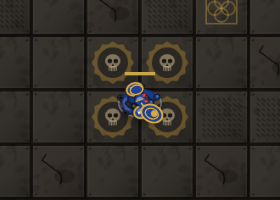
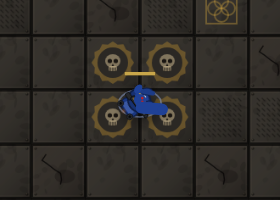
Guard pose readable; fix double pickup toast; spreads ×1.8
Guard: skip stock _top while bracing (twin gold pauldrons stacked into
a disc); draw an elongated blue covering arm/pauldron + tucked gun and
body twist instead — no shield/plate overlay.

Crate pickup: grantWeapon({ announce: false }) so unlock+pickup no
longer both toast; wave unlocks still emit unlock. Regression test.

Weapon spread cones ×1.8 (melta stays 0); baseline regenerated.

Changed region(s): [[0.4, 0.39, 0.6, 0.63]]

diff --git a/packages/client/src/render/Renderer.ts b/packages/client/src/render/Renderer.ts
@@ -914,61 +914,52 @@ export class Renderer {
   }
 
   /**
-   * Defensive stance pose (no shield graphic): Space Marine covers with the leading pauldron and
-   * raised gauntlet — same spirit as the sprint run-arms, just planted and covering the front.
-   * Drawn over body + helmet/_top so the raised pauldron clearly covers the front.
+   * Guard cover silhouette. Stock `_top` is skipped while guarding (its twin gold-rimmed
+   * pauldrons stack into a disc when the torso twists). Instead: one elongated blue covering
+   * pauldron/arm into the aim, trailing shoulder back, simple helmet — no gold discs/arcs.
    */
   private drawGuardBrace(ch: ChapterDef, x: number, y: number, a: number): void {
     const { ctx } = this;
     const c = Math.cos(a);
     const s = Math.sin(a);
-    // Leading shoulder shoved forward into the threat (covers the front arc).
-    const lead = 1;
-    const sx = x + c * 14 - s * 16 * lead;
-    const sy = y + s * 14 + c * 16 * lead;
     ctx.save();
     ctx.lineCap = 'round';
-    // Trailing shoulder settles back — body turned into the brace.
-    const tx = x - c * 4 + s * 12 * lead;
-    const ty = y - s * 4 - c * 12 * lead;
+    ctx.lineJoin = 'round';
+
+    // Trailing shoulder — small, blue only, pulled back.
     ctx.fillStyle = ch.primary;
-    ctx.strokeStyle = ch.trim;
-    ctx.lineWidth = 1.75;
     ctx.beginPath();
-    ctx.ellipse(tx, ty, 7.5, 5.5, a - 0.25 * lead, 0, Math.PI * 2);
+    ctx.ellipse(x - c * 2 + s * 13, y - s * 2 - c * 13, 6, 4, a - 0.9, 0, Math.PI * 2);
     ctx.fill();
-    ctx.stroke();
-    // Forearm bar across the torso (raised covering arm).
-    const hx = x + c * 2 - s * 4 * lead;
-    const hy = y + s * 2 + c * 4 * lead;
+
+    // Helmet (stock _top skipped).
+    ctx.beginPath();
+    ctx.arc(x, y, 7.2, 0, Math.PI * 2);
+    ctx.fill();
+    ctx.fillStyle = '#c02020';
+    ctx.beginPath();
+    ctx.arc(x + c * 2.8 - s * 2.2, y + s * 2.8 + c * 2.2, 1.5, 0, Math.PI * 2);
+    ctx.arc(x + c * 2.8 + s * 2.2, y + s * 2.8 - c * 2.2, 1.5, 0, Math.PI * 2);
+    ctx.fill();
+
+    // Covering pauldron+arm: elongated BLUE capsule aimed into the threat (aspect ~3:1).
+    // Drawn as a thick stroke so it reads as a raised shoulder/arm, never a round plate.
+    const shX = x + c * 2 - s * 9;
+    const shY = y + s * 2 + c * 9;
+    const tipX = x + c * 26 - s * 11;
+    const tipY = y + s * 26 + c * 11;
     ctx.strokeStyle = ch.primary;
-    ctx.lineWidth = 7;
+    ctx.lineWidth = 14;
     ctx.beginPath();
-    ctx.moveTo(hx, hy);
-    ctx.lineTo(sx - c * 3, sy - s * 3);
+    ctx.moveTo(shX, shY);
+    ctx.lineTo(tipX, tipY);
     ctx.stroke();
-    ctx.strokeStyle = ch.trim;
-    ctx.lineWidth = 2;
-    ctx.stroke();
-    // Big raised pauldron disc (the readable "covers with his shoulder" beat).
+    // Fist
     ctx.fillStyle = ch.primary;
-    ctx.strokeStyle = ch.trim;
-    ctx.lineWidth = 2.25;
     ctx.beginPath();
-    ctx.ellipse(sx, sy, 13, 10, a + 0.45 * lead, 0, Math.PI * 2);
+    ctx.arc(tipX, tipY, 5, 0, Math.PI * 2);
     ctx.fill();
-    ctx.stroke();
-    // Trim ridge on the pauldron
-    ctx.strokeStyle = ch.trim;
-    ctx.lineWidth = 1.5;
-    ctx.beginPath();
-    ctx.ellipse(sx, sy, 8, 6, a + 0.45 * lead, 0, Math.PI * 2);
-    ctx.stroke();
-    // Gauntlet fist at the forward edge
-    ctx.fillStyle = ch.trim;
-    ctx.beginPath();
-    ctx.arc(sx + c * 3, sy + s * 3, 4, 0, Math.PI * 2);
-    ctx.fill();
+
     ctx.restore();
   }
 
@@ -1048,7 +1039,7 @@ export class Renderer {
             ? weaponPose(sprinting, mine ? f.me!.sprint!.weaponDelay : (p.wd ?? 0))
             : 1;
         // Guard: slight body turn into the leading shoulder (same layers, no shield overlay).
-        const guardTwist = guarding ? -0.32 : 0;
+        const guardTwist = guarding ? -0.6 : 0;
         const bodyA = a + guardTwist;
         if (this.assets.draw(ctx, body, frame, x, y, bodyA)) {
           // Weapon: held in the aim direction. v0.6.0 hotfix: while sprinting it is NOT drawn
@@ -1057,9 +1048,9 @@ export class Renderer {
           // While guarding the gun is tucked in across the body so the raised pauldron reads.
           const e = pose * pose * (3 - 2 * pose);
           const guardTuck = guarding ? 1 : 0;
-          const back = rec * e + 6 * (1 - e) + 14 * guardTuck;
-          const wRot = (1 - e) * 0.7 + 0.75 * guardTuck;
-          const wScale = (0.9 + 0.1 * e) * (1 - 0.12 * guardTuck);
+          const back = rec * e + 6 * (1 - e) + 12 * guardTuck;
+          const wRot = (1 - e) * 0.7 + 0.95 * guardTuck;
+          const wScale = (0.9 + 0.1 * e) * (1 - 0.1 * guardTuck);
           this.heldPose.set(p.id, {
             x,
             y,
@@ -1075,28 +1066,31 @@ export class Renderer {
               ctx,
               held,
               0,
-              x - Math.cos(a) * back + Math.sin(a) * 4 * guardTuck,
-              y - Math.sin(a) * back - Math.cos(a) * 4 * guardTuck,
+              x - Math.cos(a) * back + Math.sin(a) * 14 * guardTuck,
+              y - Math.sin(a) * back - Math.cos(a) * 14 * guardTuck,
               a + wRot,
               wScale,
             );
             ctx.globalAlpha = 1;
           }
           if (pose < 1) this.drawRunningArms(ch, x, y, a, w.dist, 1 - pose);
-          // Helmet / pauldrons follow the twisted torso; raised covering arm drawn on top.
-          this.assets.draw(ctx, `${body}_top`, 0, x, y, bodyA);
-          if (guarding) this.drawGuardBrace(ch, x, y, a);
+          if (guarding) {
+            // Skip stock _top — twin gold-rimmed pauldrons form a disc when twisted.
+            this.drawGuardBrace(ch, x, y, a);
+          } else {
+            this.assets.draw(ctx, `${body}_top`, 0, x, y, bodyA);
+          }
         } else {
           ctx.fillStyle = ch.primary;
           ctx.beginPath();
           ctx.arc(x, y, PLAYER.radius, 0, Math.PI * 2);
           ctx.fill();
-          if (guarding) this.drawGuardBrace(ch, x, y, a);
+          if (guarding) this.drawGuardBrace(ch, x, y, bodyA);
           if (pose > 0) {
             ctx.strokeStyle = ch.trim;
             ctx.lineWidth = 5;
             ctx.globalAlpha = pose;
-            const reach = guarding ? 16 : 26;
+            const reach = guarding ? 12 : 26;
             ctx.beginPath();
             ctx.moveTo(x, y);
             ctx.lineTo(x + Math.cos(a) * reach * pose, y + Math.sin(a) * reach * pose);

diff --git a/packages/shared/test/pickupToast.test.ts b/packages/shared/test/pickupToast.test.ts
@@ -1,0 +1,63 @@
+/** Crate pickup must not double-fire unlock+pickup toasts for a new weapon. */
+import { describe, expect, it } from 'vitest';
+import { createWorld, grantWeapon, type World } from '../src/sim/index.js';
+import { updatePickups } from '../src/sim/systems/pickups.js';
+import { unlockWaveWeapons } from '../src/sim/systems/weapons.js';
+
+function world(): World {
+  const w = createWorld([{ id: 1, name: 'M1' }], 7);
+  w.director.idle = true;
+  return w;
+}
+
+describe('weapon crate pickup announcements', () => {
+  it('new crate grant emits pickup only (no unlock) so the HUD toasts once', () => {
+    const w = world();
+    const p = w.players[0]!;
+    expect(p.weapons.includes('plasma_gun')).toBe(false);
+    w.pickups.push({
+      id: 99,
+      kind: 'weapon',
+      weapon: 'plasma_gun',
+      x: p.x,
+      y: p.y,
+      life: 30,
+    });
+    w.events.length = 0;
+    updatePickups(w, 1 / 60);
+    expect(p.weapons.includes('plasma_gun')).toBe(true);
+    const unlocks = w.events.filter((e) => e.e === 'unlock');
+    const pickups = w.events.filter((e) => e.e === 'pickup');
+    expect(unlocks).toHaveLength(0);
+    expect(pickups).toEqual([{ e: 'pickup', p: p.id, k: 'weapon', w: 'plasma_gun' }]);
+  });
+
+  it('already-owned crate still emits a single pickup (ammo refill path)', () => {
+    const w = world();
+    const p = w.players[0]!;
+    grantWeapon(w, p, 'plasma_gun', { announce: false });
+    p.ammo.plasma_gun = 1;
+    w.pickups.push({
+      id: 100,
+      kind: 'weapon',
+      weapon: 'plasma_gun',
+      x: p.x,
+      y: p.y,
+      life: 30,
+    });
+    w.events.length = 0;
+    updatePickups(w, 1 / 60);
+    expect(p.ammo.plasma_gun).toBe(w.content.weapon('plasma_gun').magazine);
+    expect(w.events.filter((e) => e.e === 'unlock')).toHaveLength(0);
+    expect(w.events.filter((e) => e.e === 'pickup')).toHaveLength(1);
+  });
+
+  it('wave unlocks still emit unlock (banner for shared arsenal grants)', () => {
+    const w = world();
+    const p = w.players[0]!;
+    w.events.length = 0;
+    unlockWaveWeapons(w, 5); // plasma_gun
+    expect(p.weapons.includes('plasma_gun')).toBe(true);
+    expect(w.events.filter((e) => e.e === 'unlock' && e.w === 'plasma_gun')).toHaveLength(1);
+  });
+});

diff --git a/packages/shared/src/sim/systems/weapons.ts b/packages/shared/src/sim/systems/weapons.ts
@@ -11,14 +11,23 @@ import type { Player, World } from '../types.js';
 import { damagePlayer } from './combat.js';
 import { effectiveFire, sprintFacing } from './movement.js';
 
-/** Grants a weapon to a player (no-op if owned). Returns true if newly granted. */
-export function grantWeapon(world: World, player: Player, weaponId: string): boolean {
+/**
+ * Grants a weapon to a player (no-op if owned). Returns true if newly granted.
+ * `announce` (default true) emits an `unlock` HUD event — wave unlocks want that; crate
+ * pickups pass false because they already emit `pickup` (avoids a double toast).
+ */
+export function grantWeapon(
+  world: World,
+  player: Player,
+  weaponId: string,
+  opts?: { announce?: boolean },
+): boolean {
   if (player.weapons.includes(weaponId)) return false;
   const def = world.content.weapon(weaponId);
   player.weapons.push(weaponId);
   player.weapons.sort((a, b) => world.content.weapon(a).slot - world.content.weapon(b).slot);
   player.ammo[weaponId] = def.magazine;
-  world.events.push({ e: 'unlock', p: player.id, w: weaponId });
+  if (opts?.announce !== false) world.events.push({ e: 'unlock', p: player.id, w: weaponId });
   return true;
 }
 

diff --git a/packages/shared/src/data/weapons.ts b/packages/shared/src/data/weapons.ts
@@ -18,7 +18,7 @@ export const WEAPONS: WeaponDef[] = [
     magazine: 30,
     reloadTime: 1.5,
     pellets: 1,
-    spread: 0.07,
+    spread: 0.126,
     moveSpeedMul: 1,
     fireMoveMul: 0.8,
     projectile: {
@@ -50,7 +50,7 @@ export const WEAPONS: WeaponDef[] = [
     magazine: 90,
     reloadTime: 2.6,
     pellets: 1,
-    spread: 0.168,
+    spread: 0.3024,
     moveSpeedMul: 0.9,
     fireMoveMul: 0.65,
     // Braced: standing still for braceDelay s -> +70% fire rate, tighter cone.
@@ -91,7 +91,7 @@ export const WEAPONS: WeaponDef[] = [
     magazine: 110,
     reloadTime: 2.2,
     pellets: 2,
-    spread: 0.77,
+    spread: 1.386,
     moveSpeedMul: 0.95,
     fireMoveMul: 0.85,
     projectile: {
@@ -129,7 +129,7 @@ export const WEAPONS: WeaponDef[] = [
     magazine: 20,
     reloadTime: 1.8,
     pellets: 1,
-    spread: 0.042,
+    spread: 0.0756,
     moveSpeedMul: 0.95,
     fireMoveMul: 0.8,
     projectile: {
@@ -209,7 +209,7 @@ export const WEAPONS: WeaponDef[] = [
     magazine: 3,
     reloadTime: 2.4,
     pellets: 1,
-    spread: 0.056,
+    spread: 0.1008,
     moveSpeedMul: 1,
     fireMoveMul: 0.9,
     projectile: {

diff --git a/packages/shared/src/sim/systems/pickups.ts b/packages/shared/src/sim/systems/pickups.ts
@@ -15,7 +15,9 @@ export function updatePickups(world: World, dt: number): void {
         if (p.hp >= p.maxHp) continue;
         p.hp = Math.min(p.maxHp, p.hp + PICKUP.medkitHeal);
       } else if (pk.weapon) {
-        if (!grantWeapon(world, p, pk.weapon)) {
+        // Silent grant: the `pickup` event below is the one toast (grantWeapon would also
+        // emit `unlock` and the HUD would show the same banner twice).
+        if (!grantWeapon(world, p, pk.weapon, { announce: false })) {
           // Already owned: refill that weapon and patch up a little.
           p.ammo[pk.weapon] = world.content.weapon(pk.weapon).magazine;
           p.hp = Math.min(p.maxHp, p.hp + PICKUP.medkitHeal / 2);

diff --git a/scripts/brace-shots.ts b/scripts/brace-shots.ts
@@ -4,7 +4,7 @@
  *   npx tsx scripts/brace-shots.ts [clientUrl]   # default http://localhost:5173/
  *
  *  - docs/review/brace-idle.png      — standing still, not guarding
- *  - docs/review/brace-guard.png     — RMB held, front shield arc visible
+ *  - docs/review/brace-guard.png     — RMB held, pauldron/arm cover pose
  *  - docs/review/brace-guard-zoom.png — crop around the marine
  *  - docs/review/brace-touch.png     — touch landscape with GUARD button pressed
  *  - docs/review/rules-link-style.png — main menu ZASADY / RULES link (gold, not blue)

diff --git a/packages/shared/test/content.test.ts b/packages/shared/test/content.test.ts
@@ -49,3 +49,18 @@ describe('director escalation', () => {
     expect(late.length).toBeGreaterThan(early.length);
   });
 });
+
+describe('weapon spread cones', () => {
+  it('matches the post-+80% table (melta stays pin-point)', () => {
+    const byId = Object.fromEntries(WEAPONS.map((w) => [w.id, w.spread]));
+    expect(byId).toMatchObject({
+      bolt_rifle: 0.126,
+      heavy_bolter: 0.3024,
+      flamer: 1.386,
+      plasma_gun: 0.0756,
+      meltagun: 0,
+      frag_grenade: 0.1008,
+    });
+  });
+});
+
